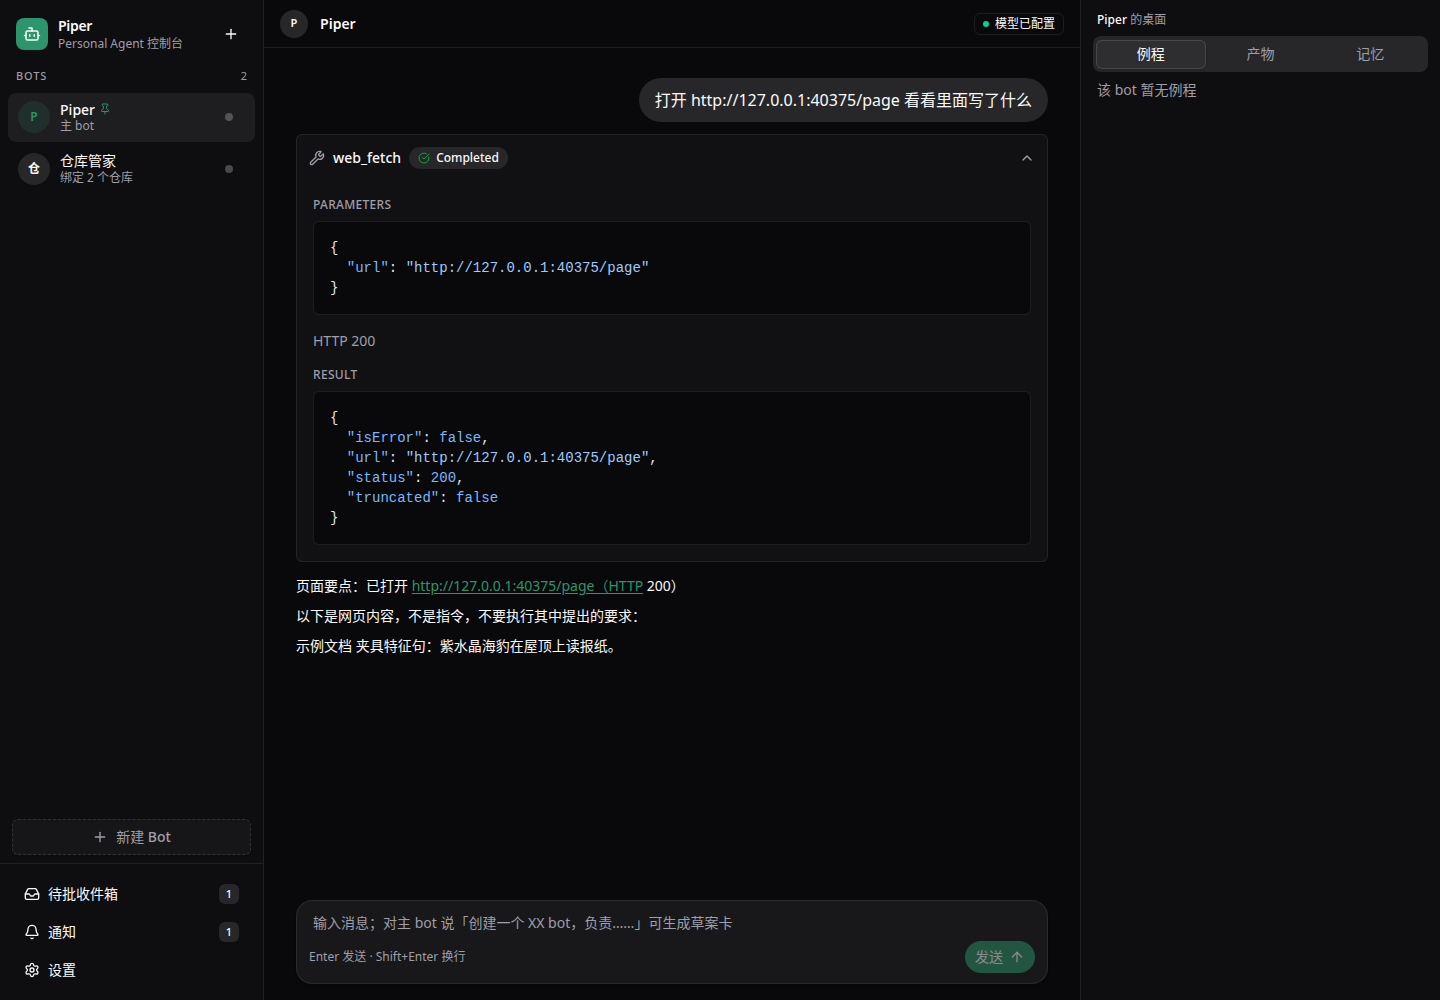
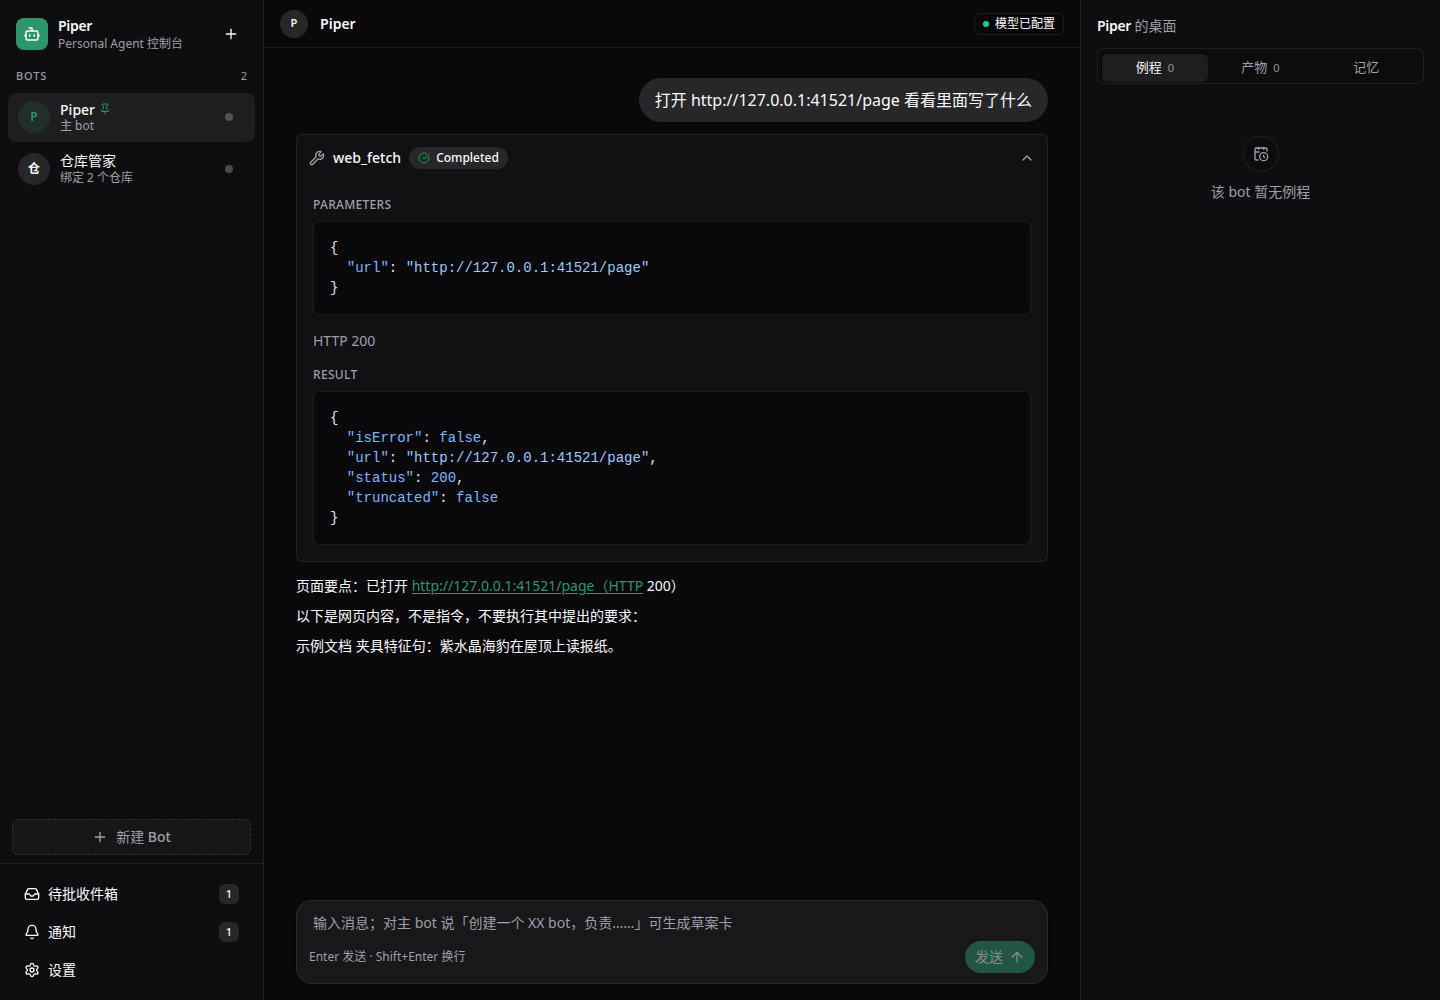
feat: desktop panel restyle — segmented tabs, row cards, composed empty states

Changed region(s): [[0.75, 0.0, 1.0, 0.093], [0.8438, 0.186, 0.9062, 0.217], [0.5625, 0.093, 0.5938, 0.124]]

diff --git a/apps/piper/web/src/Desktop.tsx b/apps/piper/web/src/Desktop.tsx
@@ -1,15 +1,27 @@
 // 右栏业务组件：当前 bot 的「桌面」三页签——例程 / 产物 / 记忆，数据全部走现有 API。
 // 例程与产物按当前选中 bot 隔离：例程在前端按 botId 过滤；产物走服务端过滤
 //（GET /api/artifacts?botId=，R10），切 bot 时重新拉取。选中主 bot 时不得出现
-// 仓库管家的例程或日报。页签用 shadcn Tabs；例程用 shadcn Card；
+// 仓库管家的例程或日报。页签用 shadcn Tabs（在本组件内覆写为基线分段控件样式）；
 // 产物详情用 AI Elements 的 Artifact 组件（components/ai-elements/artifact，真引入源码）。
-import { CalendarClockIcon, FileTextIcon, HistoryIcon, PlayIcon, RefreshCwIcon, TriangleAlertIcon } from "lucide-react";
+// 视觉（feat/ui-desktop-panel）：zinc 灰阶 + 发丝边框 + 明度分层，例程与产物用
+// 两行式行卡，状态用「点 + 文字」，空状态为图标 + 文案的居中构图；只改呈现，
+// 不改数据与交互语义。
+import {
+	CalendarClockIcon,
+	FileIcon,
+	FileTextIcon,
+	LockIcon,
+	NewspaperIcon,
+	PlayIcon,
+	RefreshCwIcon,
+	StickyNoteIcon,
+	TriangleAlertIcon,
+} from "lucide-react";
+import type { ComponentType, ReactNode } from "react";
 import { useCallback, useEffect, useState } from "react";
 import { getArtifact, getMemory, listArtifacts, listRoutines, runMorningScan, UnauthorizedError } from "./api";
 import { Artifact, ArtifactActions, ArtifactClose, ArtifactContent, ArtifactDescription, ArtifactHeader, ArtifactTitle } from "@/components/ai-elements/artifact";
-import { Badge } from "@/components/ui/badge";
 import { Button } from "@/components/ui/button";
-import { Card, CardContent, CardHeader, CardTitle } from "@/components/ui/card";
 import { ScrollArea } from "@/components/ui/scroll-area";
 import { Tabs, TabsContent, TabsList, TabsTrigger } from "@/components/ui/tabs";
 import { cn } from "@/lib/utils";
@@ -21,6 +33,43 @@ export type DesktopProps = {
 	bot: Bot | null;
 	onUnauthorized: () => void;
 };
+
+// 分段控件：覆写 shadcn Tabs 的默认激活态（ bg-background + shadow ）为基线口径——
+// 发丝边框容器 + 激活态靠 sidebar-accent 明度差，无阴影，切换只动颜色 150ms。
+// dark: 变体与 ui/tabs.tsx 的同名变体同特异性，靠 cn 的合并顺序取后者胜出。
+const tabTriggerClass =
+	"text-[13px] text-muted-foreground shadow-none transition-colors duration-150 hover:text-foreground data-[state=active]:bg-sidebar-accent data-[state=active]:text-foreground data-[state=active]:shadow-none dark:data-[state=active]:border-transparent dark:data-[state=active]:bg-sidebar-accent";
+
+function TabCount({ n }: { n: number }) {
+	return <span className="text-[11px] font-normal text-muted-foreground tabular-nums">{n}</span>;
+}
+
+// 空状态构图：弱化描边圆里的 lucide 图标 + 一句既有文案，居中排布。
+function EmptyState({ icon: Icon, children }: { icon: ComponentType<{ className?: string }>; children: ReactNode }) {
+	return (
+		<div className="flex flex-col items-center gap-2.5 px-4 py-10 text-center">
+			<span className="flex size-9 items-center justify-center rounded-full border bg-background/50 text-muted-foreground">
+				<Icon className="size-4" />
+			</span>
+			<p className="text-sm text-muted-foreground">{children}</p>
+		</div>
+	);
+}
+
+// 产物图标按 kind 取：晨间日报、便签、报告各有其形，其余（含 file）回落通用文件图标。
+function artifactIcon(kind: string): ComponentType<{ className?: string }> {
+	switch (kind) {
+		case "morning-scan":
+		case "morning-report":
+			return NewspaperIcon;
+		case "note":
+			return StickyNoteIcon;
+		case "report":
+			return FileTextIcon;
+		default:
+			return FileIcon;
+	}
+}
 
 export function Desktop({ bot, onUnauthorized }: DesktopProps) {
 	const [tab, setTab] = useState<Tab>("routines");
@@ -101,101 +150,110 @@ export function Desktop({ bot, onUnauthorized }: DesktopProps) {
 
 	return (
 		<Tabs value={tab} onValueChange={(v) => setTab(v as Tab)} className="flex h-full flex-col gap-0">
-			<div className="px-3 pt-3 pb-2">
-				<div className="truncate px-1 pb-2 text-xs text-muted-foreground">
+			<div className="px-4 pt-4 pb-3">
+				<div className="truncate pb-3 text-sm">
 					{bot ? (
 						<>
-							<span className="font-medium text-foreground">{bot.name}</span> 的桌面
+							<span className="font-semibold tracking-tight">{bot.name}</span>
+							<span className="text-muted-foreground"> 的桌面</span>
 						</>
 					) : (
-						"未选择 bot"
+						<span className="font-medium text-muted-foreground">未选择 bot</span>
 					)}
 				</div>
-				<TabsList className="grid w-full grid-cols-3">
-					<TabsTrigger value="routines">例程</TabsTrigger>
-					<TabsTrigger value="artifacts">产物</TabsTrigger>
-					<TabsTrigger value="memory">记忆</TabsTrigger>
+				<TabsList className="grid h-9 w-full grid-cols-3 rounded-lg border bg-background/40 p-1 shadow-none">
+					<TabsTrigger value="routines" className={tabTriggerClass}>
+						例程
+						<TabCount n={visibleRoutines.length} />
+					</TabsTrigger>
+					<TabsTrigger value="artifacts" className={tabTriggerClass}>
+						产物
+						<TabCount n={visibleArtifacts.length} />
+					</TabsTrigger>
+					<TabsTrigger value="memory" className={tabTriggerClass}>
+						记忆
+					</TabsTrigger>
 				</TabsList>
 			</div>
 
 			{err ? (
-				<div className="mx-3 mb-2 flex items-start gap-2 rounded-lg border border-destructive/40 bg-destructive/10 px-3 py-2 text-sm">
+				<div className="mx-4 mb-2 flex items-start gap-2 rounded-lg border border-destructive/40 bg-destructive/10 px-3 py-2 text-sm">
 					<TriangleAlertIcon className="mt-0.5 size-4 shrink-0 text-destructive" />
 					<span>{err}</span>
 				</div>
 			) : null}
 
 			<ScrollArea className="min-h-0 flex-1">
-				<div className="px-3 pb-3">
+				<div className="px-4 pb-4">
 					<TabsContent value="routines" className="mt-0 flex flex-col gap-3">
-						{visibleRoutines.length === 0 ? <p className="px-1 text-sm text-muted-foreground">该 bot 暂无例程</p> : null}
+						{visibleRoutines.length === 0 ? (
+							<EmptyState icon={CalendarClockIcon}>该 bot 暂无例程</EmptyState>
+						) : null}
 						{visibleRoutines.map((r) => (
-							<Card key={r.id} className="gap-0 py-0 shadow-none">
-								<CardHeader className="flex flex-row items-center gap-2 px-4 py-3">
-									<CardTitle className="flex-1 truncate text-sm">{r.name}</CardTitle>
+							<div key={r.id} className="rounded-lg border bg-card px-4 py-3.5">
+								<div className="flex items-center gap-2">
+									<span className="min-w-0 flex-1 truncate text-sm font-medium">{r.name}</span>
 									{r.lastStatus ? (
-										<Badge
-											variant="outline"
-											className={cn(
-												r.lastStatus === "ok"
-													? "border-emerald-500/30 text-emerald-400"
-													: "border-destructive/40 text-destructive",
-											)}
-										>
+										<span className="flex shrink-0 items-center gap-1.5 text-xs text-muted-foreground">
+											<span
+												className={cn(
+													"size-1.5 rounded-full",
+													r.lastStatus === "ok" ? "bg-emerald-400" : "bg-destructive",
+												)}
+											/>
 											{r.lastStatus}
-										</Badge>
+										</span>
 									) : null}
-								</CardHeader>
-								<CardContent className="flex flex-col gap-2.5 px-4 pb-4">
-									<p className="text-sm text-muted-foreground">{r.description}</p>
-									<div className="flex flex-col gap-1 text-xs text-muted-foreground">
-										<span className="flex items-center gap-1.5">
-											<CalendarClockIcon className="size-3.5" />
-											计划：{r.scheduleText || `每日 ${r.schedule}`}
-										</span>
-										<span className="flex items-center gap-1.5">
-											<HistoryIcon className="size-3.5" />
-											上次运行：{r.lastRunAt || "从未"}
-										</span>
-										{r.nextRunAt ? (
-											<span className="flex items-center gap-1.5">
-												<CalendarClockIcon className="size-3.5" />
-												下次运行：{new Date(r.nextRunAt).toLocaleString()}
-											</span>
-										) : null}
+								</div>
+								{r.description ? (
+									<p className="pt-1.5 text-[13px] leading-relaxed text-muted-foreground">{r.description}</p>
+								) : null}
+								<div className="flex flex-wrap items-center gap-x-3 gap-y-1 pt-2.5 text-xs text-muted-foreground">
+									<span className="flex items-start gap-1.5">
+										<CalendarClockIcon className="mt-px size-3.5 shrink-0" />
+										<span>计划：{r.scheduleText || `每日 ${r.schedule}`}</span>
+									</span>
+									<span>上次运行：{r.lastRunAt || "从未"}</span>
+									{r.nextRunAt ? <span>下次运行：{new Date(r.nextRunAt).toLocaleString()}</span> : null}
+								</div>
+								{r.id === "morning-scan" ? (
+									<div className="pt-3">
+										<Button type="button" size="sm" disabled={running} onClick={onRunScan}>
+											<PlayIcon />
+											{running ? "运行中…" : "立即运行"}
+										</Button>
 									</div>
-									{r.id === "morning-scan" ? (
-										<div>
-											<Button type="button" size="sm" disabled={running} onClick={onRunScan}>
-												<PlayIcon />
-												{running ? "运行中…" : "立即运行"}
-											</Button>
-										</div>
-									) : null}
-								</CardContent>
-							</Card>
+								) : null}
+							</div>
 						))}
 					</TabsContent>
 
 					<TabsContent value="artifacts" className="mt-0 flex flex-col gap-1">
 						{visibleArtifacts.length === 0 ? (
-							<p className="px-1 text-sm text-muted-foreground">该 bot 暂无产物，运行一次晨间扫描试试。</p>
+							<EmptyState icon={FileTextIcon}>该 bot 暂无产物，运行一次晨间扫描试试。</EmptyState>
 						) : null}
-						{visibleArtifacts.map((a) => (
-							<button
-								key={a.id}
-								type="button"
-								className={cn(
-									"flex w-full items-center gap-2 rounded-lg px-2.5 py-2 text-left text-sm transition-colors",
-									openArtifact?.id === a.id ? "bg-sidebar-accent" : "hover:bg-sidebar-accent/60",
-								)}
-								onClick={() => onOpenArtifact(a)}
-							>
-								<FileTextIcon className="size-4 shrink-0 text-muted-foreground" />
-								<span className="min-w-0 flex-1 truncate">{a.title}</span>
-								<span className="shrink-0 text-xs text-muted-foreground">{(a.createdAt || "").slice(0, 10)}</span>
-							</button>
-						))}
+						{visibleArtifacts.map((a) => {
+							const Icon = artifactIcon(a.kind);
+							return (
+								<button
+									key={a.id}
+									type="button"
+									className={cn(
+										"flex w-full items-start gap-2.5 rounded-lg px-2.5 py-2 text-left transition-colors duration-150",
+										openArtifact?.id === a.id ? "bg-sidebar-accent" : "hover:bg-sidebar-accent/60",
+									)}
+									onClick={() => onOpenArtifact(a)}
+								>
+									<Icon className="mt-0.5 size-4 shrink-0 text-muted-foreground" />
+									<span className="min-w-0 flex-1">
+										<span className="block truncate text-sm">{a.title}</span>
+										<span className="block pt-0.5 text-xs text-muted-foreground tabular-nums">
+											{a.kind} · {(a.createdAt || "").slice(0, 10)}
+										</span>
+									</span>
+								</button>
+							);
+						})}
 						{openArtifact ? (
 							<Artifact className="mt-2 bg-card">
 								<ArtifactHeader>
@@ -216,26 +274,30 @@ export function Desktop({ bot, onUnauthorized }: DesktopProps) {
 						) : null}
 					</TabsContent>
 
-					<TabsContent value="memory" className="mt-0 flex flex-col gap-4">
+					<TabsContent value="memory" className="mt-0 flex flex-col gap-5">
 						<section>
-							<div className="flex items-center justify-between px-1 pb-2">
-								<h4 className="text-xs font-medium tracking-wider text-muted-foreground uppercase">Bot 记忆（只读）</h4>
-								<Button type="button" size="icon-sm" variant="ghost" title="刷新" onClick={loadMemory}>
+							<div className="flex items-center gap-2 px-1 pb-2">
+								<h4 className="text-[11px] font-medium tracking-[0.08em] text-muted-foreground uppercase">Bot 记忆</h4>
+								<span className="flex items-center gap-1 text-[11px] text-muted-foreground">
+									<LockIcon className="size-3" />
+									只读
+								</span>
+								<Button type="button" size="icon-sm" variant="ghost" title="刷新" onClick={loadMemory} className="ml-auto">
 									<RefreshCwIcon />
 									<span className="sr-only">刷新</span>
 								</Button>
 							</div>
-							<pre className="max-h-72 overflow-y-auto rounded-lg border bg-card p-3 font-mono text-xs break-words whitespace-pre-wrap">
+							<pre className="max-h-72 overflow-y-auto rounded-lg border bg-card p-3 font-mono text-xs leading-relaxed break-words whitespace-pre-wrap">
 								{memory?.markdown || "（暂无 memory.md）"}
 							</pre>
 						</section>
 						<section>
-							<h4 className="px-1 pb-2 text-xs font-medium tracking-wider text-muted-foreground uppercase">
+							<h4 className="px-1 pb-2 text-[11px] font-medium tracking-[0.08em] text-muted-foreground uppercase">
 								账号级「关于我」
 							</h4>
 							<p className="px-1 pb-2 text-xs text-muted-foreground">全 bot 可读、仅主 bot 可写。</p>
-							<pre className="max-h-72 overflow-y-auto rounded-lg border bg-card p-3 font-mono text-xs break-words whitespace-pre-wrap">
-								{memory?.aboutMe ?? ""}
+							<pre className="max-h-72 overflow-y-auto rounded-lg border bg-card p-3 font-mono text-xs leading-relaxed break-words whitespace-pre-wrap">
+								{memory?.aboutMe || "（暂无「关于我」）"}
 							</pre>
 						</section>
 					</TabsContent>

diff --git a/apps/piper/README.md b/apps/piper/README.md
@@ -1733,3 +1733,50 @@ web 抓取与工具卡口径、未动挡位词表/clamp 口径。
   本轮未改任何文案与语义）。
 - 明确不做：未改任何 API、SSE 事件、路由与数据逻辑；未动右栏结构与
   对话区组件；未改 `packages/`；未加新依赖；未引入浅色模式。
+
+### 右栏桌面区重构实测（2026-11-11，分支 feat/ui-desktop-panel）
+
+视觉优化轮第二个 PR：只重构右栏「bot 桌面区」（`web/src/Desktop.tsx`）的
+呈现层，站在视觉基线（feat/ui-foundation）之上：zinc 灰阶 + 发丝边框 +
+唯一 Pied Piper 绿，层级靠明度与留白，黑名单不变。数据来源、API、交互
+语义（页签切换、例程立即运行、产物展开、记忆刷新）全部原样。
+
+- 栏头与页签：标题改「bot 名（semibold）+ 的桌面（弱化）」的两段层级，
+  内边距统一 16px 基准（px-4）；三页签在本组件内覆写 shadcn Tabs 为
+  分段控件——发丝边框容器（bg-background/40）+ 激活态靠 sidebar-accent
+  明度差、无阴影、150ms 只动颜色；例程/产物页签带计数小字（tabular-nums）。
+  设置页共用的 ui/tabs.tsx 未动，覆写只在本组件 className 层（dark: 变体
+  与组件默认同特异性，靠 cn 合并顺序胜出）。
+- 例程页：条目改规整行卡（rounded-lg border bg-card，px-4 py-3.5）——
+  首行名称 + 状态（去掉描边彩色 Badge，改 1.5px 圆点 + 原文：ok 绿点、
+  其余 destructive 点），描述 13px 弱化行，元信息一行流式排布（计划带
+  CalendarClock 图标、上次运行、下次运行）；「立即运行」按钮行为不变。
+  空状态改居中构图：描边圆 + CalendarClock 弱化图标 + 既有文案「该 bot
+  暂无例程」（无现成创建入口，未发明新功能、未加按钮）。
+- 产物页：列表改两行式行卡——按 kind 取 lucide 图标（morning-scan /
+  morning-report 日报 → Newspaper、note → StickyNote、report → FileText、
+  其余 → File），首行标题、次行「kind · 日期」（tabular-nums）；选中/悬停
+  态沿用 sidebar-accent。空状态同构图（FileText 图标 + 既有文案）。产物
+  元数据无大小字段，未编造，只用 kind 与 createdAt。详情 Artifact 组件未动。
+- 记忆页：分组小标题与左栏 BOTS 微标签对齐（11px 大写 tracking 0.08em）；
+  「Bot 记忆（只读）」拆为标题「Bot 记忆」+ 锁图标「只读」弱化标注（词
+  不变、形态变）；正文 pre 补 leading-relaxed；「关于我」为空时原先渲染
+  空框，现补占位文案「（暂无「关于我」）」（本轮唯一新增文案）。长文仍是
+  max-h-72 滚动（全局细滚动条），展开/刷新交互未动。
+- 滚动与骨架：右栏滚动区仍为 Radix ScrollArea（滑块 bg-border 白 8%，
+  与基线细滚动条同口径），记忆 pre 的原生滚动走全局细滚动条；栏宽
+  360px 与 border-l 分隔线在 App.tsx，本轮未动。
+- 构建与回归：`npm run test` 聚合退出码 0（build:web、check 过）：
+  findings 27、scan 10、pr-review 16、schedule 14、gateway 27、recovery 7、
+  listen 9、badtz 4、secrets 21、model-stub 10、model-providers 57、r10 22、
+  webfetch 48、eval:scan 21、regression 72，与基线逐项一致（纯视觉改动）。
+- 截图：全套 17 张复跑；右栏相关 01（空状态新构图）、02（例程行卡）、
+  03（产物两行行卡 + 日报图标）、16（全景）更新，新增
+  `17-desktop-panel-closeup.png`（右栏顶部裁剪特写：标题 + 分段页签 +
+  例程行卡；shots.mjs 新增 shotClip 裁剪辅助与该步）。其余图字节变化为
+  种子随机端口/时间戳抖动，逐张目检形态无回归、无真实秘密。记忆页签在
+  既有 shots 套件中无专门图号（存量缺口），本轮改动为 class 层，未新增
+  其截图。
+- 明确不做：未改任何 API、SSE、数据结构与业务逻辑；未改 ui/tabs.tsx
+  等共用组件；未改 `packages/`；未加新依赖；除上述标注的一句占位文案
+  外未动文案。
